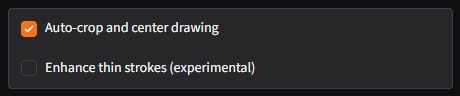
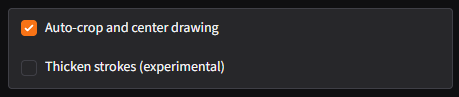
Clarify experimental stroke thickening option

diff --git a/app.py b/app.py
@@ -121,7 +121,7 @@ with gr.Blocks(title="Doodle Recognizer", fill_width=True) as demo:
             )
 
             enhance_strokes = gr.Checkbox(
-                label="Enhance thin strokes (experimental)",
+                label="Thicken strokes (experimental)",
                 value=False
             )
 
